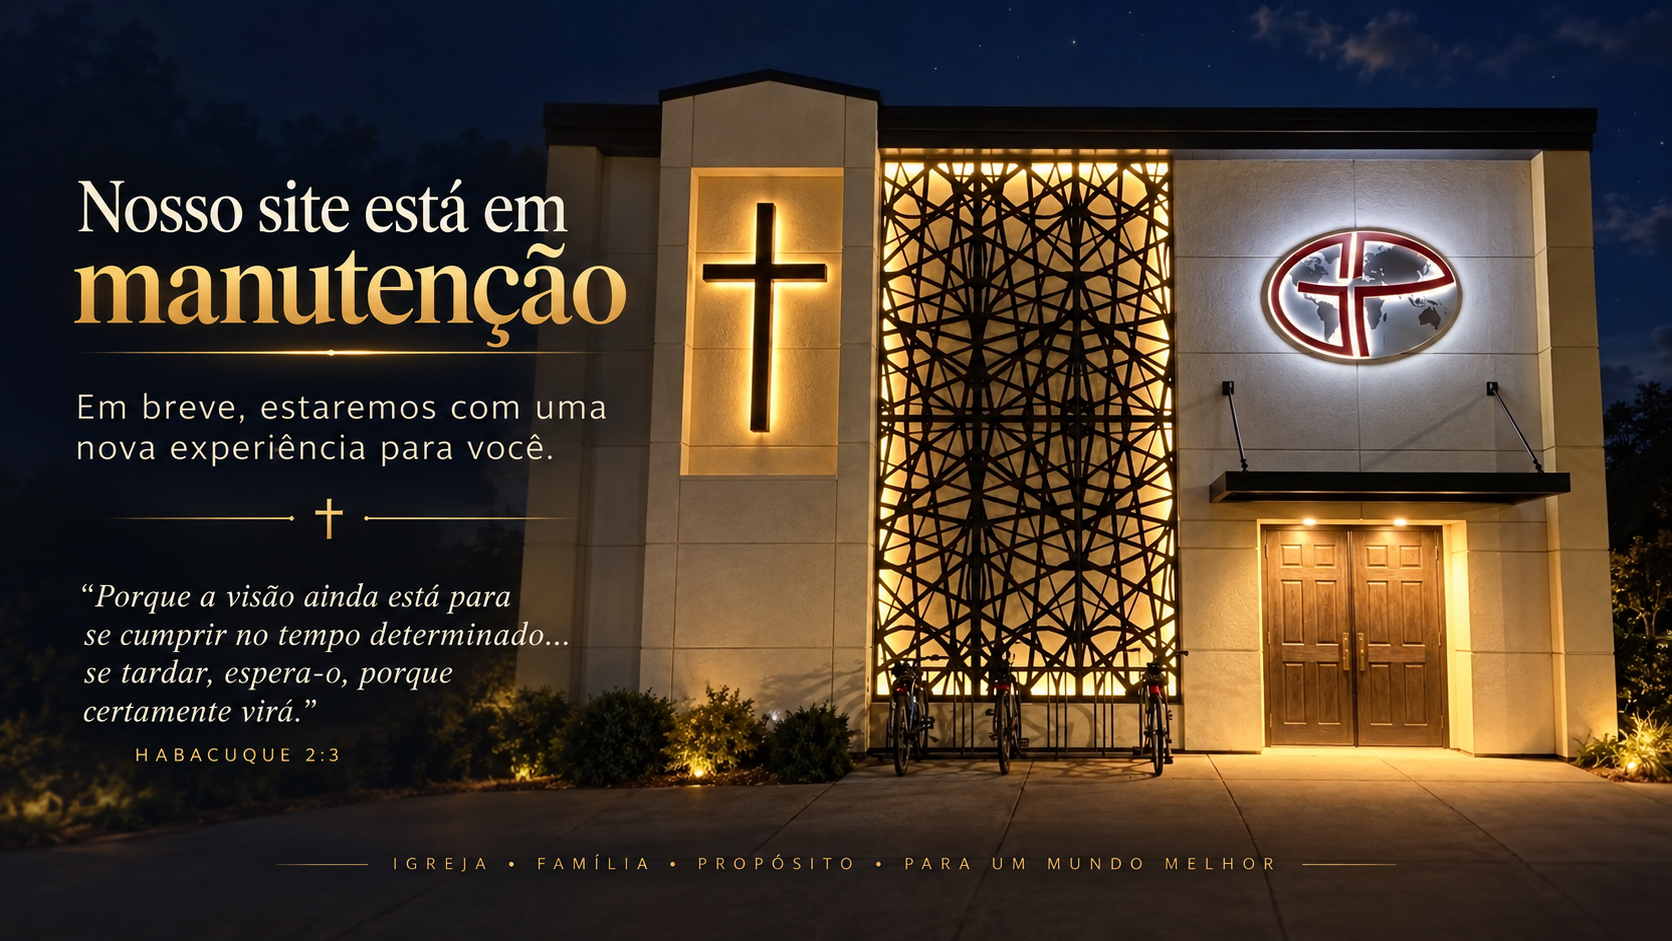
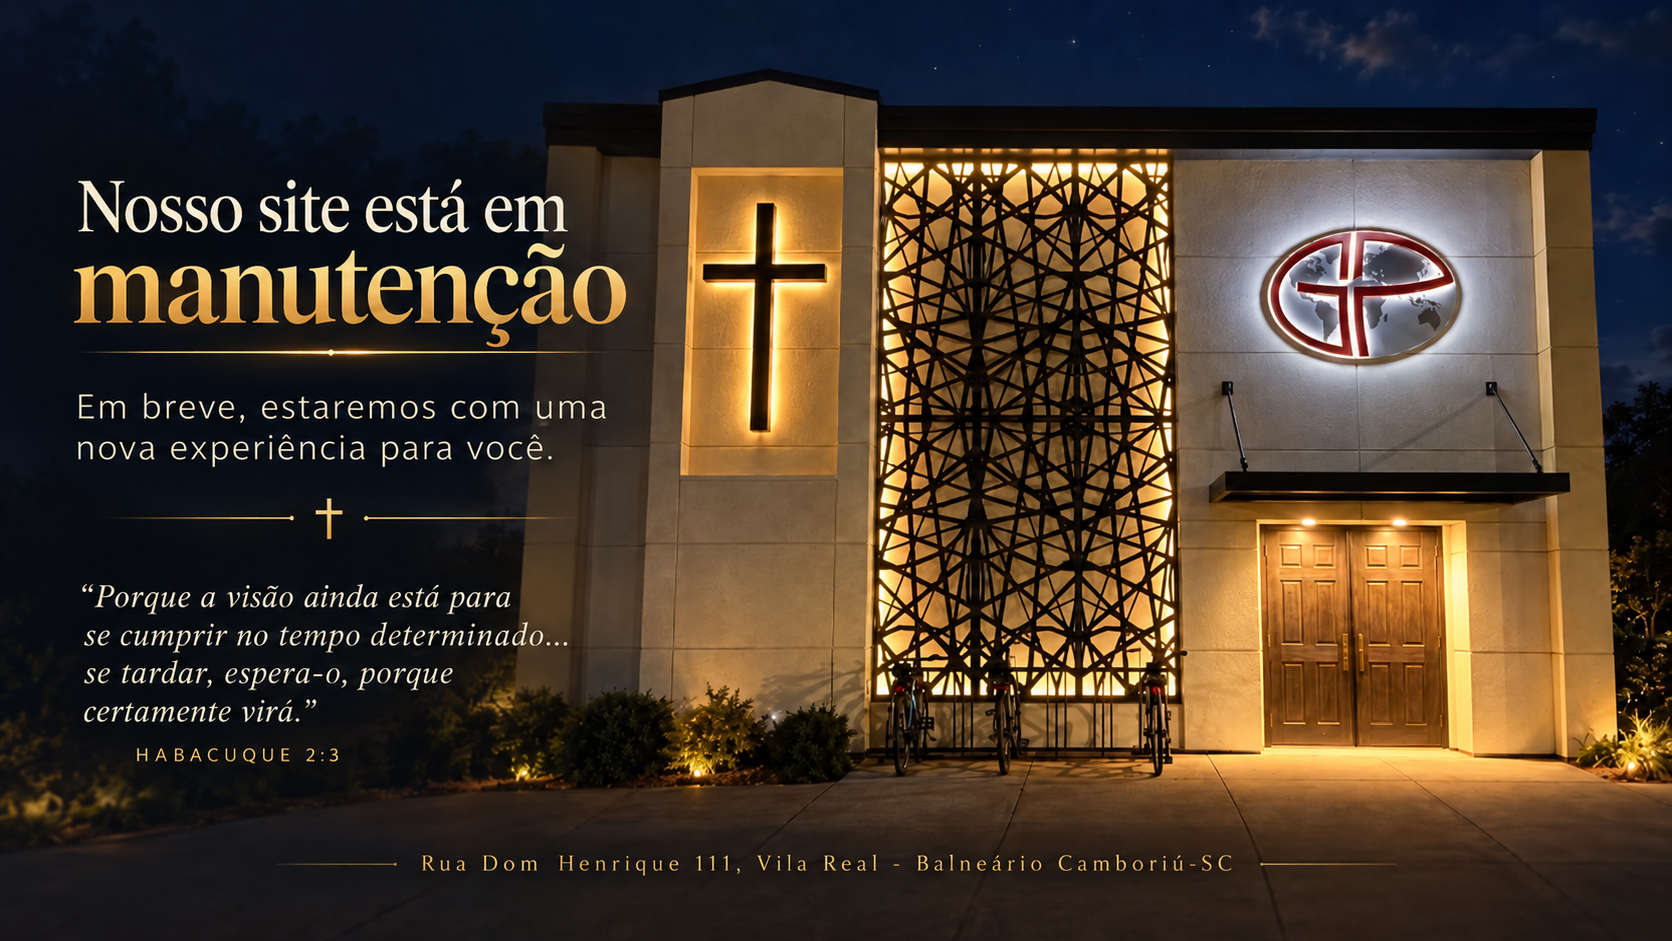
Atualizar tela de manutenção com mapa

diff --git a/src/App.tsx b/src/App.tsx
@@ -28,6 +28,31 @@ export const App: React.FC = () => {
             width: '100%',
           }}
         />
+        <a
+          aria-label="Como chegar à Igreja Graça e Poder pelo Google Maps"
+          href="https://www.google.com/maps/search/?api=1&query=Rua%20Dom%20Henrique%20111%2C%20Vila%20Real%2C%20Balne%C3%A1rio%20Cambori%C3%BA%20SC"
+          rel="noreferrer"
+          target="_blank"
+          style={{
+            background: 'rgba(16, 12, 8, 0.88)',
+            border: '1px solid #d9aa50',
+            borderRadius: '999px',
+            bottom: 'clamp(1rem, 3vw, 2rem)',
+            boxShadow: '0 8px 24px rgba(0, 0, 0, 0.28)',
+            color: '#f6d68d',
+            fontFamily: 'Arial, sans-serif',
+            fontSize: 'clamp(0.8rem, 2.5vw, 1rem)',
+            fontWeight: 700,
+            letterSpacing: '0.02em',
+            padding: '0.72rem 1rem',
+            position: 'absolute',
+            right: 'clamp(1rem, 3vw, 2rem)',
+            textDecoration: 'none',
+            zIndex: 1,
+          }}
+        >
+          📍 Como chegar
+        </a>
       </main>
     );
   }
